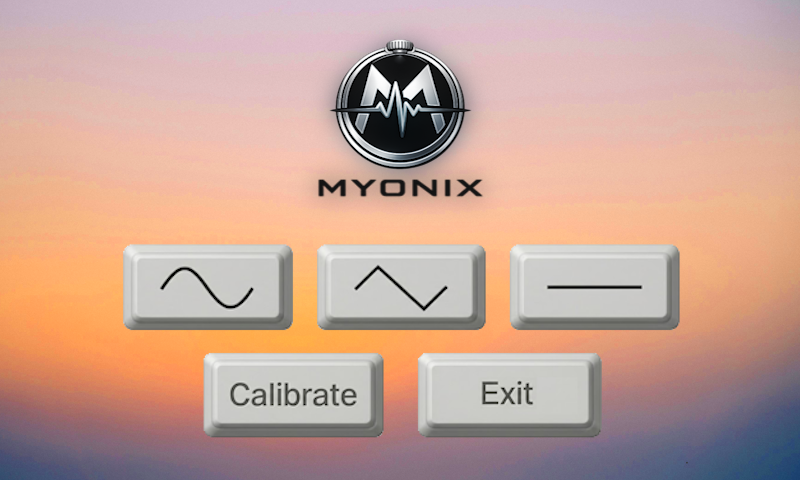
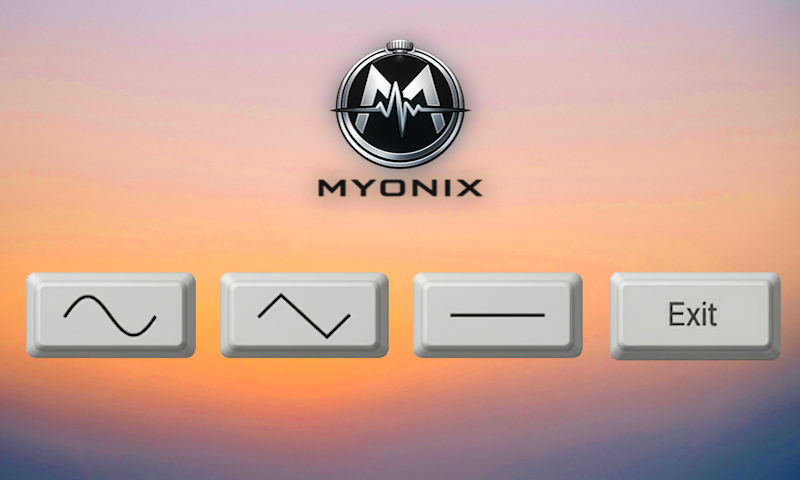
Removed cal button from main menu

Changed region(s): [[0.0312, 0.5, 1.0, 0.9375]]

diff --git a/PosVisionMain.py b/PosVisionMain.py
@@ -1,8 +1,6 @@
 import cv2
 import numpy as np
 import platform
-import subprocess
-import sys
 import struct
 from utils import (
     fps_counter, correct_mm, generate_line, load_selection,
@@ -12,7 +10,7 @@ from utils import (
     error_tool,
     sine_button_coord, tri_button_coord,
     line_button_coord,
-    terminate_button_coord, cal_button_coord,
+    terminate_button_coord,
     reset_button_coord, pause_button_coord,
     imu_cal_button_coord
 )
@@ -60,9 +58,6 @@ def click_event(event, x, y, flags, param):
         elif line_button_coord[0] <= x <= line_button_coord[2] and line_button_coord[1] <= y <= line_button_coord[3]:
             state.setpoints = load_selection("line")
             state.menu = False
-        elif cal_button_coord[0] <= x <= cal_button_coord[2] and cal_button_coord[1] <= y <= cal_button_coord[3]:
-            proc = subprocess.Popen([sys.executable, "/home/user/Pen-position-vision/homography.py"])
-            proc.wait()   # waits until second script closes
         elif terminate_button_coord[0] <= x <= terminate_button_coord[2] and terminate_button_coord[1] <= y <= terminate_button_coord[3]:
             state.running = False           # stop loop
     else:

diff --git a/utils.py b/utils.py
@@ -273,8 +273,7 @@ reset_button_coord =   [  5, 275,   75,  475]
 pause_button_coord =   [  5, 140,   75,  270]
 imu_cal_button_coord = [725,  210, 795, 400]
 # Main menu buttons
-sine_button_coord = [125, 245, 290, 330]
-tri_button_coord = [320, 250, 485, 330]
-line_button_coord = [510, 245, 675, 330]
-cal_button_coord = [205, 350, 380, 435]
-terminate_button_coord = [420, 350, 600, 435]
+sine_button_coord =      [ 26, 272, 195, 357]
+tri_button_coord =       [220, 272, 388, 357]
+line_button_coord =      [412, 272, 582, 357]
+terminate_button_coord = [610, 272, 780, 457]
